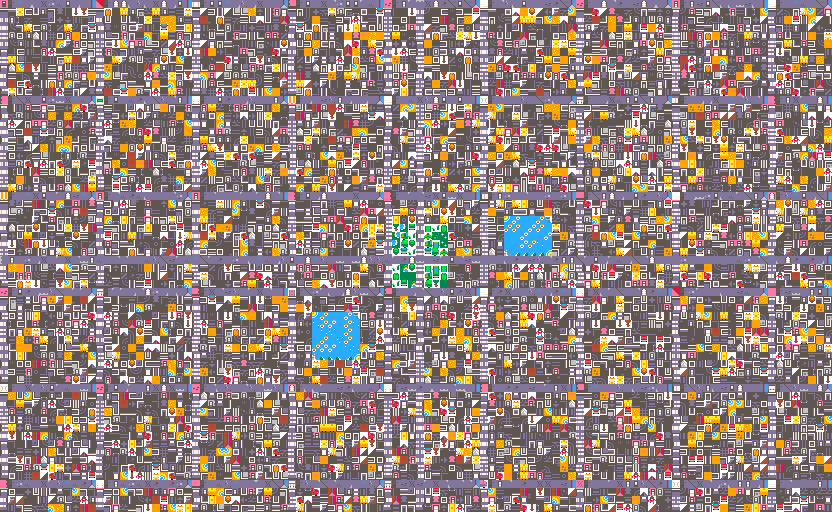
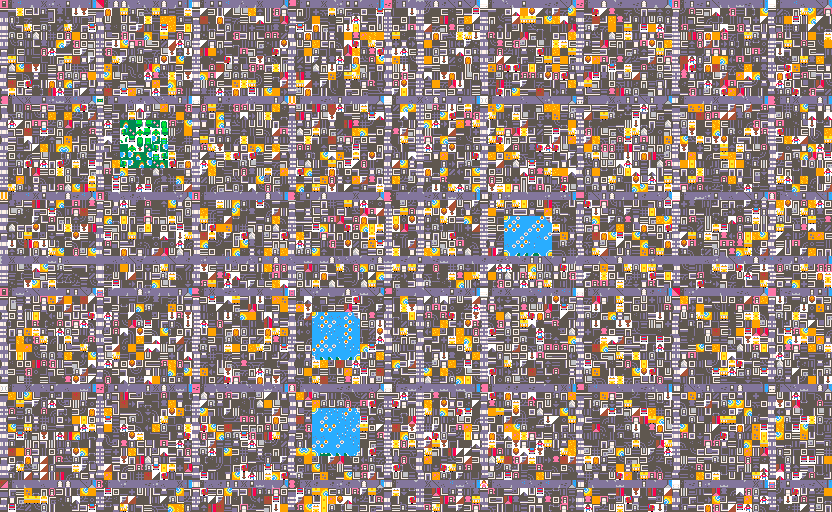
fix: 3 Seen + 1 zusammenhangender Park — Seed out-of-bounds gefixt (y=72>H=64), Park in echten Block verschoben (nicht auf zentralen Strassen)

Changed region(s): [[0.0, 0.7812, 1.0, 1.0], [0.0, 0.4375, 1.0, 0.5938], [0.125, 0.2188, 0.2188, 0.3438]]

diff --git a/scripts/build_pico8_city_4x.py b/scripts/build_pico8_city_4x.py
@@ -91,9 +91,13 @@ for y in range(H):
 
 # Wasser: Seen in den Haeuser-Bloecken (NACH der Gebaeude-Konvertierung,
 # damit sie nicht wieder ueberschrieben werden). Schneiden die Strassen NICHT.
-block_seeds = [(3,3), (6,2), (2,5)]  # (Blockzeile, Blockspalte) in 12er-Einheiten
+# Seeds muessen gueltig sein: by*12+8 < H und bx*12+8 < W (nicht out-of-bounds!)
+block_seeds = [(3,3), (2,5), (4,3)]  # (Blockzeile, Blockspalte) in 12er-Einheiten
 for (by, bx) in block_seeds:
     y0, x0 = by*12, bx*12
+    if y0+8 >= H or x0+8 >= W:  # Sicherheitscheck: Seed ausserhalb ueberspringen
+        print(f"  (WARN) Seed ({by},{bx}) ausserhalb des Gitters, uebersprungen")
+        continue
     for dy in range(3, 9):
         for dx in range(3, 9):
             yy, xx = y0+dy, x0+dx
@@ -101,9 +105,12 @@ for (by, bx) in block_seeds:
                 grid[yy][xx] = 'water'
 
 # Park: Grasflaeche in einem Block (NACH der Konvertierung: building -> grass)
-for y in range(H//2-4, H//2+4):
-    for x in range(W//2-4, W//2+4):
-        if grid[y][x] == 'building':
+# In einem echten Block zentriert (nicht auf den zentralen Strassen!)
+# Block (1,1): y=13-23, x=13-23 -> Park zentriert dort (kein Schnitt mit Strassen y=32/x=52)
+py0, px0 = 1*12, 1*12
+for y in range(py0+3, py0+9):
+    for x in range(px0+3, px0+9):
+        if 0<=y<H and 0<=x<W and grid[y][x]=='building':
             grid[y][x] = 'grass'
 
 # Orange Deko auf Strassen (Plaetze, Markierungen)
